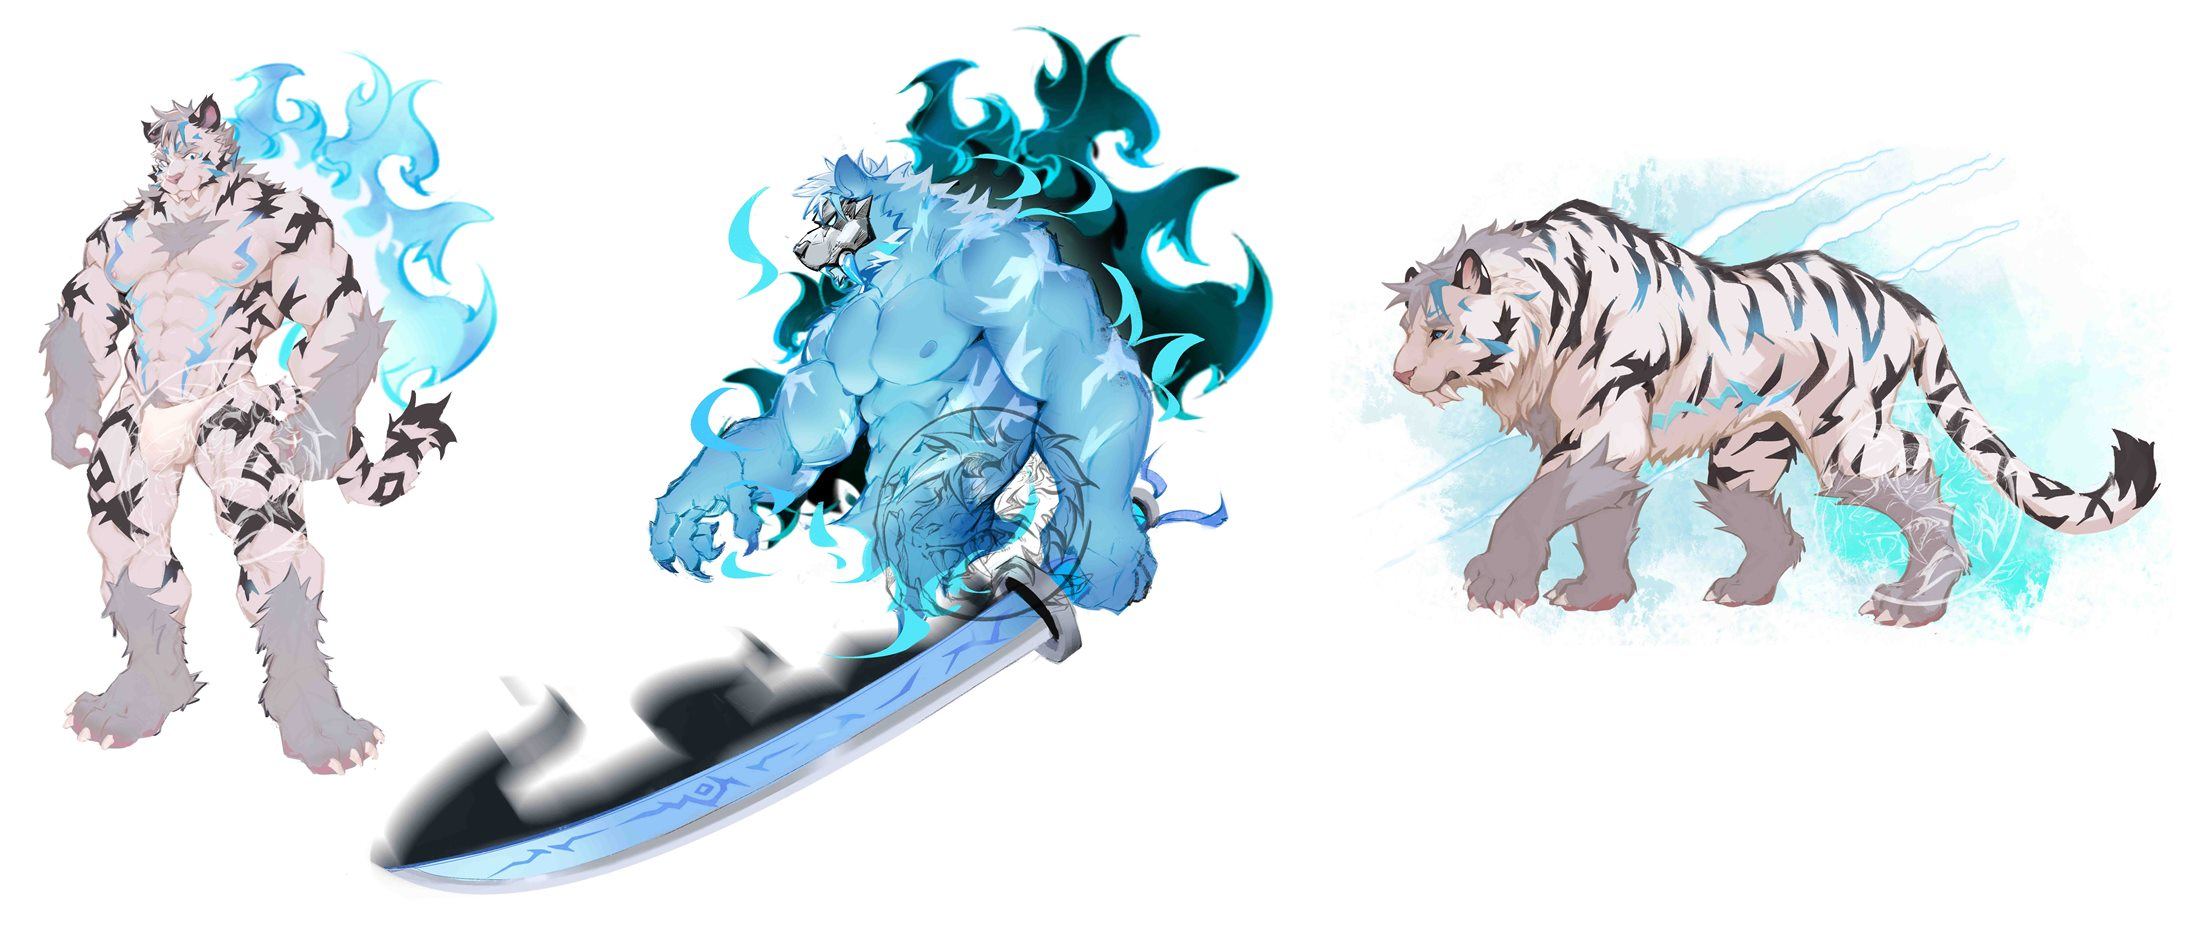
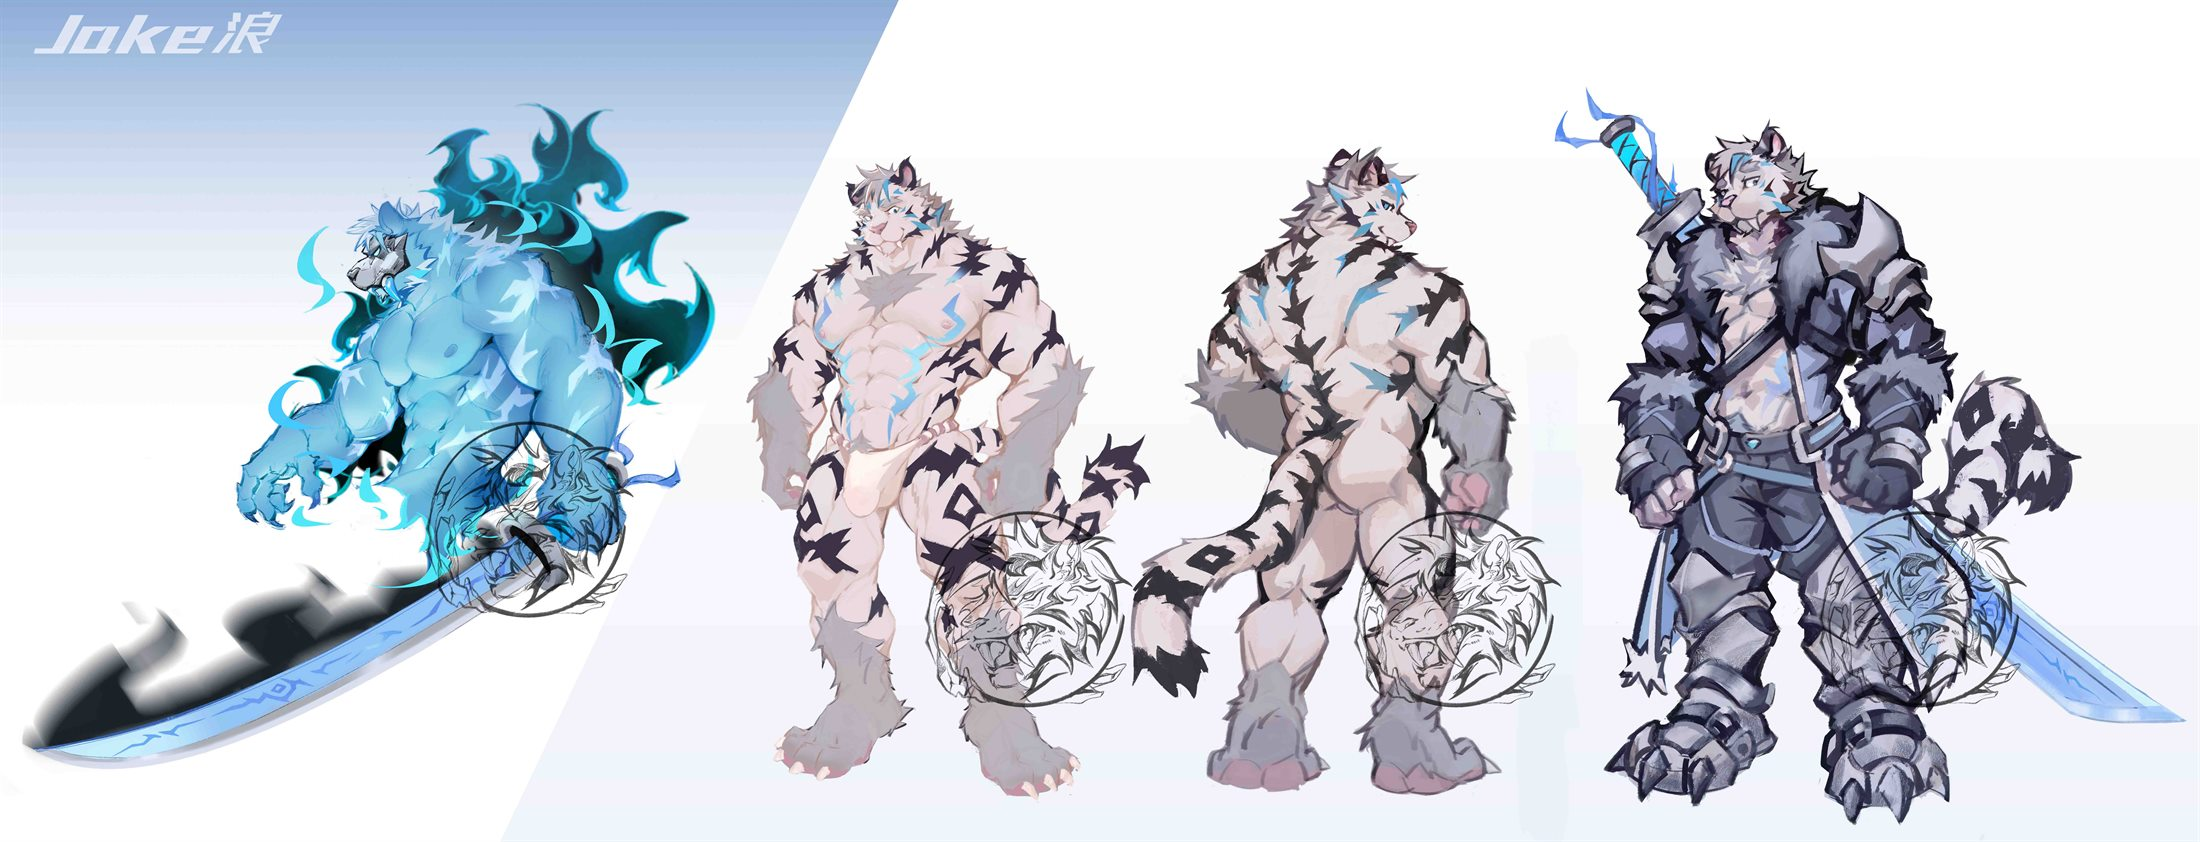
Add README + bilingual copyright notice pinned to page bottom; even hamburger bars; comma line breaks in lore timeline; swap Silvade 2.0 first artwork

diff --git a/index.html b/index.html
@@ -500,6 +500,14 @@
     .timeline-item b { color: var(--ice-strong); font-size: .68rem; letter-spacing: .16em; text-transform: uppercase; }
     .timeline-item h3 { margin: .5rem 0 .32rem; font-family: var(--serif); font-size: 1.35rem; font-weight: var(--serif-weight); }
     .timeline-item p { margin: 0; color: #60727c; font-size: .86rem; }
+    /*
+     * 三栏中文统一断在逗号后面（"…年代，" / "…独行猎人，" / "…空轨之间，"），
+     * 所有分辨率和手机端都走这条规则，避免自动折行把词劈开。
+     */
+    .timeline-zh-break::after {
+      content: "\A";
+      white-space: pre;
+    }
     .timeline-en {
       display: block;
       margin-top: .32rem;
@@ -903,17 +911,26 @@
       transition: opacity .26s ease, transform .26s ease;
     }
     .gallery-nav-icon[data-icon="menu"] {
-      display: flex;
-      flex-direction: column;
-      justify-content: center;
-      gap: .2rem;
-    }
-    .gallery-nav-icon[data-icon="menu"] i {
+      /*
+       * 三条横线用一个重复渐变画，三根一样粗、间距完全相等。
+       * 两个关键点：
+       *   1) 不靠三个 <i> + gap 排（每根落在像素网格的位置不同，粗细不匀）；
+       *   2) 周期必须是整数像素（1.5px 线 + 2.5px 空 = 4px），这样三根在屏幕上的
+       *      次像素相位完全一致，抗锯齿的结果也一模一样，不会出现 8/9/7 那种差。
+       * 高度 = 1.5 * 3 + 2.5 * 2 = 9.5px，正好收在最后一根的底边。
+       */
       display: block;
       width: 1.05rem;
-      height: 1px;
-      background: currentColor;
+      height: 9.5px;
+      background-image: repeating-linear-gradient(
+        to bottom,
+        currentColor 0 1.5px,
+        transparent 1.5px 4px
+      );
+      background-repeat: no-repeat;
+      background-size: 100% 100%;
     }
+    .gallery-nav-icon[data-icon="menu"] i { display: none; }
     .gallery-nav-icon[data-icon="back"] {
       display: grid;
       place-items: center;
@@ -1883,6 +1900,39 @@
       height: auto;
       opacity: .92;
     }
+    /*
+     * 页面最末尾的版权声明：中文一行、英文一行，浅灰小字压在页脚下面。
+     * 桌面版每一页都是一屏，社交页就是最后一屏，所以这条在这一屏里绝对定位、
+     * 钉在页面最底端（见下面 @media (min-width: 801px) 那段）；手机端是长滚动，
+     * 它本来就是最后一个元素，保持正常文档流即可。
+     */
+    .site-legal {
+      display: flex;
+      flex-wrap: wrap;
+      justify-content: space-between;
+      gap: .3rem 1.4rem;
+      margin: 0;
+      color: #7b8d97;
+      font-size: .68rem;
+      line-height: 1.7;
+      letter-spacing: .01em;
+    }
+    .site-legal-en { color: #6e818c; }
+    @media (min-width: 801px) {
+      /*
+       * 钉底：左右留白和上下留白都跟着 .section 的 padding 走，
+       * max-width + margin auto 让它的宽度和 .section-inner 对齐，
+       * 这样这行字和上面的标题、社媒卡片是同一条竖线。
+       */
+      .social .site-legal {
+        position: absolute;
+        left: clamp(1.3rem, 6vw, 6rem);
+        right: clamp(1.3rem, 6vw, 6rem);
+        bottom: clamp(1rem, 2.6vh, 1.9rem);
+        max-width: 1250px;
+        margin: 0 auto;
+      }
+    }
 
     .reveal { opacity: 0; transform: translateY(24px); transition: opacity .7s ease, transform .7s ease; }
     .reveal.is-visible { opacity: 1; transform: none; }
@@ -1917,16 +1967,20 @@
       .topbar-menu-toggle.is-tapping,
       .topbar-menu-toggle[aria-expanded="true"] { color: var(--ice); }
       .topbar-menu-bars {
+        /*
+         * 和相册目录的三横同一套画法：整数周期（1.5px 线 + 2.5px 空 = 4px），
+         * 三根落在同样的次像素相位上，粗细一致。
+         */
         display: block;
         width: 1.15rem;
-        height: .72rem;
-        background-image:
-          linear-gradient(currentColor, currentColor),
-          linear-gradient(currentColor, currentColor),
-          linear-gradient(currentColor, currentColor);
-        background-size: 100% 1px;
-        background-position: 0 0, 0 50%, 0 100%;
+        height: 9.5px;
+        background-image: repeating-linear-gradient(
+          to bottom,
+          currentColor 0 1.5px,
+          transparent 1.5px 4px
+        );
         background-repeat: no-repeat;
+        background-size: 100% 100%;
       }
       .topbar-menu {
         position: absolute;
@@ -2269,6 +2323,13 @@
         gap: .8rem;
       }
       .footer-signature { width: 8.2rem; }
+      /* 版权声明跟着页脚一起右对齐，中英各占一行 */
+      .site-legal {
+        flex-direction: column;
+        align-items: flex-end;
+        gap: .25rem;
+        text-align: right;
+      }
       .home-return {
         right: 1rem;
         bottom: 1rem;
@@ -2574,15 +2635,6 @@
       html.is-wide-screen .timeline-item p {
         font-size: .95rem;
         line-height: 1.46;
-      }
-      /*
-       * 高分辨率 16:9（2K / 4K）：赫罗斯加德这栏的中文正好压在折行线上，
-       * 让它断在"独行猎人，"的逗号后，不在词中间劈开；带鱼屏这行本来就是一行，
-       * 不参与（1080p / 平板也不动）。
-       */
-      html.is-highres-screen .timeline-zh-break::after {
-        content: "\A";
-        white-space: pre;
       }
       html.is-wide-screen .timeline-item b { font-size: .82rem; }
 
@@ -2943,7 +2995,7 @@
             <div class="timeline-item">
               <b>01 / Ice Age</b>
               <h3>冰川时代</h3>
-              <p>在剑齿虎尚未消失的年代，白色身影沿着冰原的风向移动。<span class="timeline-en">Before the sabretooths vanished, a white figure moved with the wind across the icefields.</span></p>
+              <p><span class="timeline-zh-break">在剑齿虎尚未消失的年代，</span>白色身影沿着冰原的风向移动。<span class="timeline-en">Before the sabretooths vanished, a white figure moved with the wind across the icefields.</span></p>
             </div>
             <div class="timeline-item timeline-story-trigger" role="button" tabindex="0" data-story-trigger="icefield" aria-label="打开《古老冰原的守望者》全文">
               <span class="story-trigger-cta" aria-hidden="true">READ ARCHIVE<svg class="arrow-ne" viewBox="0 0 12 12" focusable="false"><path d="M3.4 8.6 8.6 3.4M4.9 3.4h3.7v3.7"/></svg></span>
@@ -2955,7 +3007,7 @@
               <span class="story-trigger-cta" aria-hidden="true">READ ARCHIVE<svg class="arrow-ne" viewBox="0 0 12 12" focusable="false"><path d="M3.4 8.6 8.6 3.4M4.9 3.4h3.7v3.7"/></svg></span>
               <b>03 / Helyon</b>
               <h3>赫利昂</h3>
-              <p>未来城市的高楼与空轨之间，横刀成为穿越霓虹的第二道影子。<span class="timeline-en">Between future high-rises and skyrails, the long sword becomes a second shadow cutting through neon.</span></p>
+              <p><span class="timeline-zh-break">未来城市的高楼与空轨之间，</span>横刀成为穿越霓虹的第二道影子。<span class="timeline-en">Between future high-rises and skyrails, the long sword becomes a second shadow cutting through neon.</span></p>
             </div>
           </div>
         </div>
@@ -3133,6 +3185,10 @@
               <img class="footer-signature" src="assets/silvade-signature.png" alt="Silvade 签名" width="600" height="328" loading="lazy" decoding="async">
             </span>
           </footer>
+          <p class="site-legal">
+            <span>作品版权归作者所有，仅作展示，禁止转载/商用。</span>
+            <span class="site-legal-en">All works remain the property of their authors. Display only — reposting and commercial use are prohibited.</span>
+          </p>
         </div>
       </section>
     </main>
@@ -3321,8 +3377,11 @@
             /* 封面（02）是胸像特写：桌面端卡片更扁，取景往下带一点，别把头顶切掉 */
             stackFocusWide: "50% 36%",
             credits: [
-              /* 01 是最左边那版立绘：连冰焰一起框住，放大到人物居中（再大就会切到头顶 / 脚） */
-              { artist: "小耶熊", focus: "0% 50%", zoom: 1.3, zoomOrigin: "0% 23%" },
+              /*
+               * 01 的缩略图本身就是从总表最右侧裁出来的那版立绘（2026-09-13 换的新图，
+               * 645x1000），人物已经在正中，不用再偏移或放大，居中显示即可。
+               */
+              { artist: "小耶熊" },
               { artist: "Flunky", commissioner: "Karo" },
               /* 03 看右边的白虎 */
               { artist: "Stardog", commissioner: "Karo", focus: "94% 50%" },
@@ -3709,6 +3768,29 @@
           card.append(stack, meta);
           galleryRails.sets.append(card);
         });
+
+        /*
+         * 首图预取：有些相册的第 1 张图不参与第一层堆叠（stackStart > 1），
+         * 但第二层最左边那一格永远是它。别的缩略图靠堆叠封面已经进了缓存，
+         * 只有这张要等一次新请求，打开第二层时就会看到最左边空着、最后才补上。
+         * 这里等浏览器空闲时用低优先级把它悄悄拉一次，不跟首屏（字体 / 首页视频）抢带宽。
+         */
+        const prefetchFirstTiles = () => {
+          fursuitSets.forEach((set) => {
+            if (set.comingSoon === true || set.count === 0) return;
+            const stackStart = Math.max(1, Math.min(set.count, Number(set.stackStart) || 1));
+            if (stackStart < 2) return;
+            const preload = new Image();
+            preload.decoding = "async";
+            if ("fetchPriority" in preload) preload.fetchPriority = "low";
+            preload.src = photoPath(set.id, 1, "thumbs");
+          });
+        };
+        if ("requestIdleCallback" in window) {
+          window.requestIdleCallback(prefetchFirstTiles, { timeout: 2600 });
+        } else {
+          window.setTimeout(prefetchFirstTiles, 1400);
+        }
 
         /* 目录列表与堆叠卡片共用同一份数据，相册变多时自动跟着长 */
         galleryIndexList.replaceChildren();
@@ -4505,10 +4587,16 @@
             const frame = document.createElement("span");
             frame.className = "gallery-tile-frame";
             const image = document.createElement("img");
+            /*
+             * 头两格不等滚动就开始拉：这一层是打开相册的瞬间就要看的，
+             * 交给懒加载会让最左边那格先空一下再补上。
+             * 这几个属性要在 src 之前写好，浏览器才会按新优先级取图。
+             */
+            image.loading = index <= 2 ? "eager" : "lazy";
+            image.decoding = "async";
+            if (index === 1 && "fetchPriority" in image) image.fetchPriority = "high";
             image.src = photoPath(set.id, index, "thumbs");
             image.alt = credit.title || `${set.title} · 第 ${index} 张`;
-            image.loading = "lazy";
-            image.decoding = "async";
             frame.append(image);
             const body = document.createElement("span");
             body.className = "gallery-tile-body";
@@ -4552,10 +4640,21 @@
           tile.dataset.galleryPhoto = String(index);
           tile.style.setProperty("--i", String(index - 1));
           const image = document.createElement("img");
+          /*
+           * 前几格直接拉：这一层一打开就要看，懒加载会让左边几格先空一下。
+           * 第 1 格再加一档优先级，并提前解码，避免"图到了才开始画"的那一下卡顿。
+           * 这几个属性要在 src 之前写好，浏览器才会按新优先级取图。
+           */
+          image.loading = index <= 3 ? "eager" : "lazy";
+          image.decoding = "async";
+          if (index === 1 && "fetchPriority" in image) image.fetchPriority = "high";
+          if (index === 1) {
+            image.addEventListener("load", () => {
+              if (typeof image.decode === "function") image.decode().catch(() => {});
+            }, { once: true });
+          }
           image.src = photoPath(set.id, index, "thumbs");
           image.alt = `${set.title} · 第 ${index} 张`;
-          image.loading = "lazy";
-          image.decoding = "async";
           if (credit && credit.focus) image.style.objectPosition = credit.focus;
           /* zoom 是倍数，zoomOrigin 是"围绕画面里的哪个点放大"（默认正中） */
           if (credit && credit.zoom) {

diff --git a/README.md b/README.md
@@ -1,0 +1,30 @@
+# Silvade / 雪线档案
+
+锡尔维德的个人档案站：设定故事、约稿作品、兽装照片与社媒入口。
+Personal archive for Silvade — lore, commissioned artworks, fursuit photos and social links.
+
+- 线上站点 / Live site：https://silvadelang.github.io/
+- 手机入口 / Mobile entry：https://silvadelang.github.io/mobile.html
+
+## 版权声明 / Copyright
+
+作品版权归作者所有，仅作展示，禁止转载/商用。
+All copyrighted works remain the property of their respective authors. They are shown here for display only — reposting, redistribution and any commercial use are prohibited.
+
+本站版式与代码 © 2026 Silvade（SilvadeLang）。约稿作品版权归各画师 / 摄影师所有，如需使用请先取得授权。
+Site layout and code © 2026 Silvade (SilvadeLang). Commissioned artworks remain © their respective artists and photographers; please ask before any reuse.
+
+## 目录结构 / Structure
+
+- `index.html` —— 站点本体（单文件：HTML + CSS + JS）
+- `mobile.html` —— 手机竖屏预览壳（手机端打开会自动跳回 `index.html`）
+- `assets/hero-silvade.mp4` —— 首页主视觉视频
+- `assets/commissions-gallery/` —— 委托稿件（每组 `full/` 大图 + `thumbs/` 缩略图）
+- `assets/fursuit-gallery/` —— 兽装照片（同上）
+- `assets/fonts/` —— 自托管字体（Inter / Noto Sans SC / Noto Serif SC，OFL 许可，附 LICENSE 文件）
+- `favicon.ico` / `favicon-32.png` / `apple-touch-icon.png` —— 站点图标
+
+## 备注 / Notes
+
+- 站点已加 `noindex`，不会被搜索引擎收录。
+- 图片统一压缩后上传：大图长边 ≤ 约 2200px，缩略图长边 ≤ 1000px。
